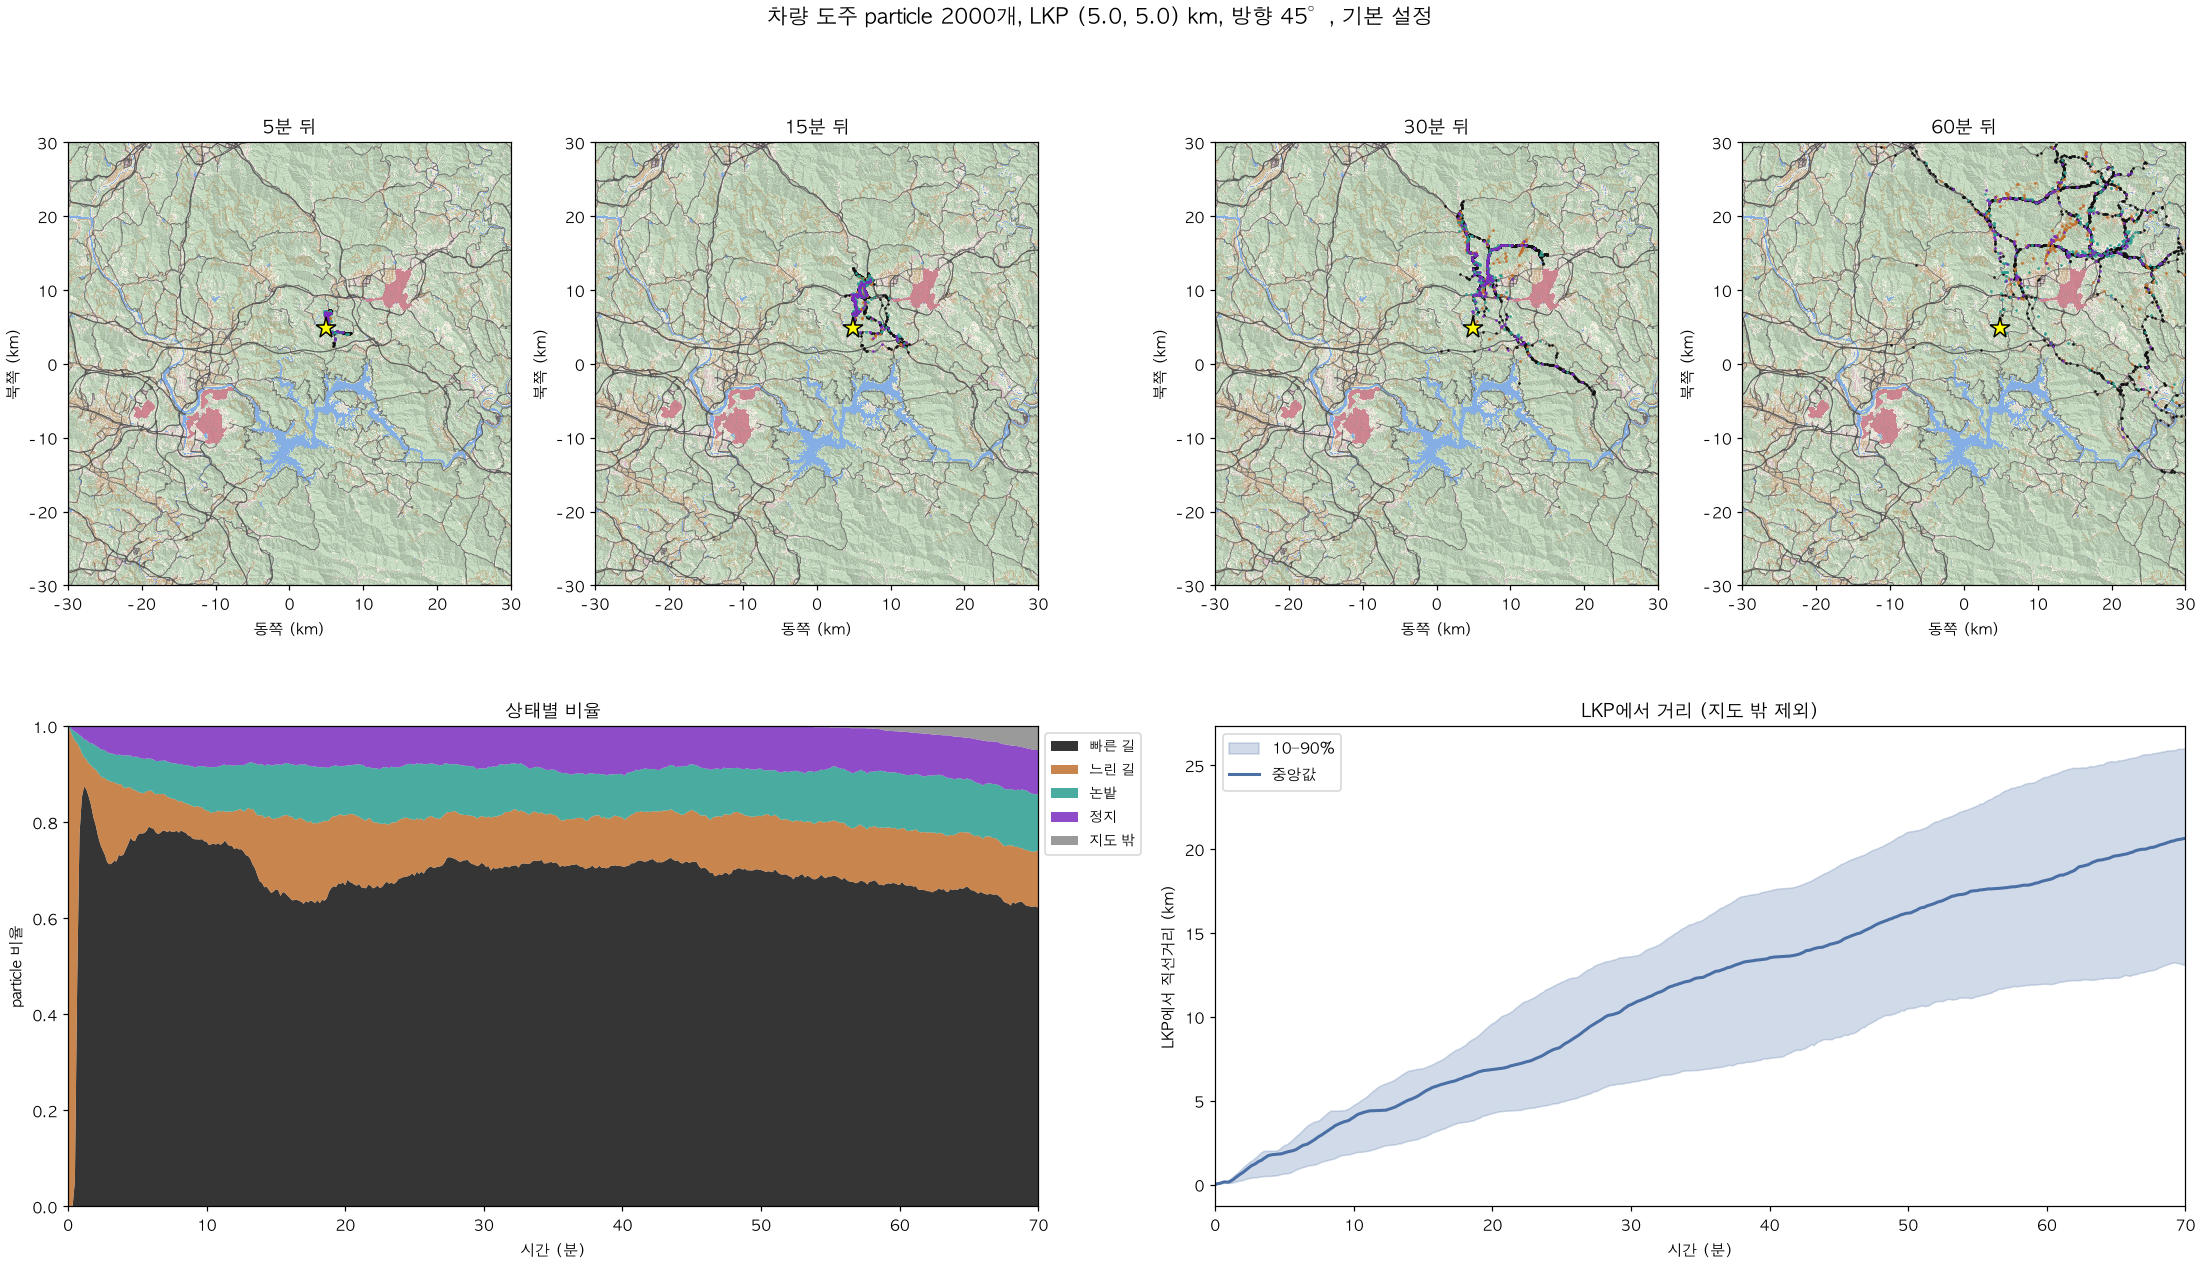
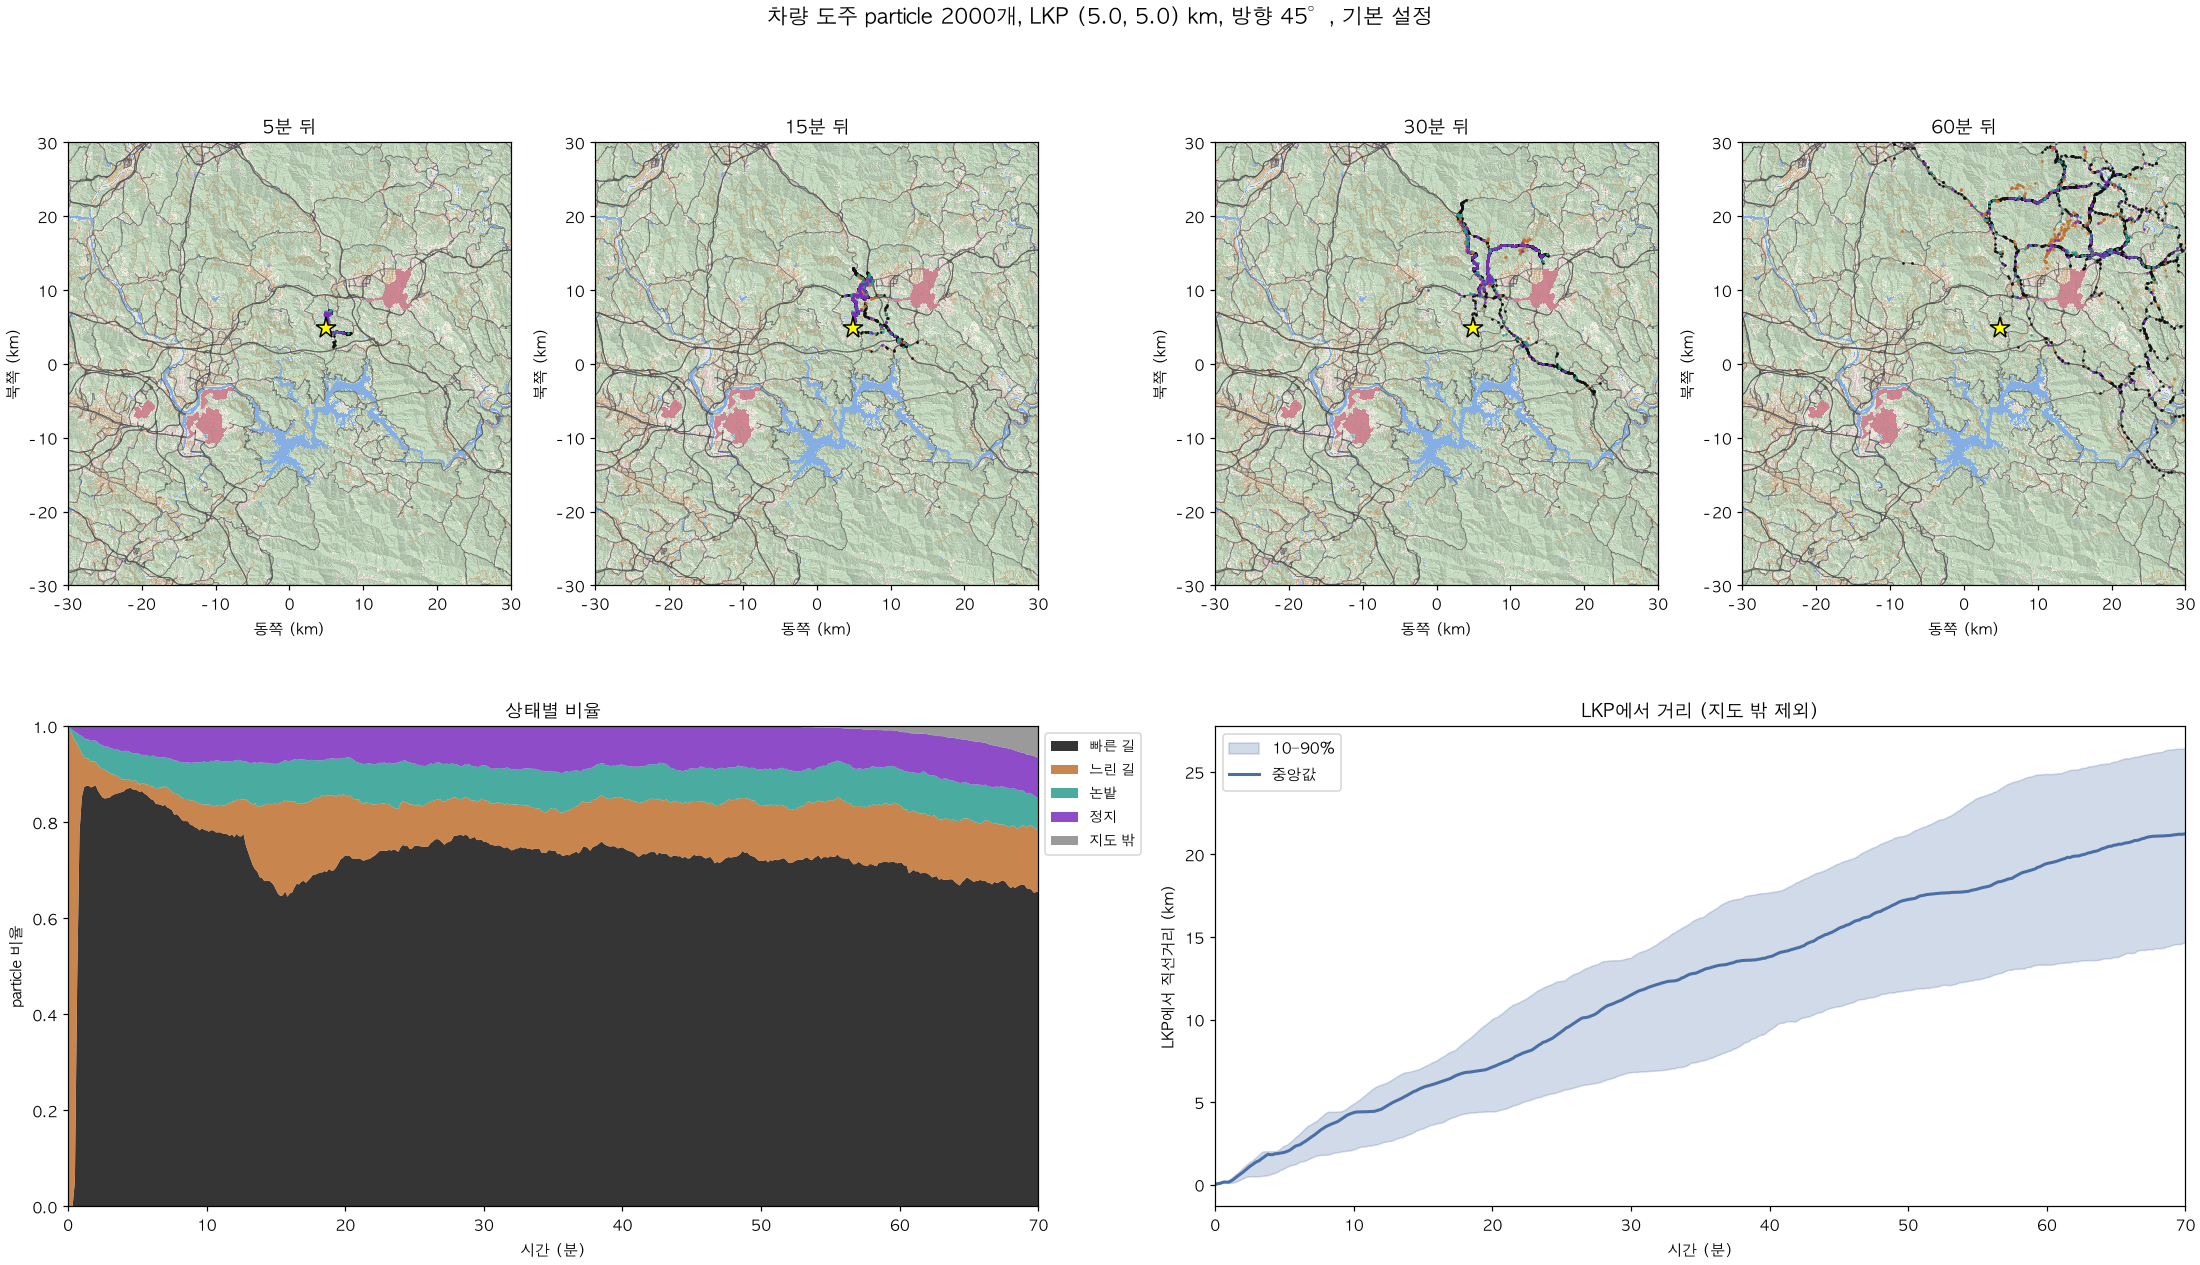
Fix stuck vehicle particles: drive only the strongly connected road network (one-way traps at the city edge), off-road pull towards roads; check figure; handoff updated

diff --git a/rl_search/vehicle.py b/rl_search/vehicle.py
@@ -70,6 +70,7 @@ class VehicleConfig:
     respect_oneway: bool = True
     w_off_heading: float = 1.0         # off-road: pull towards the escape heading
     w_off_keep: float = 2.0            # off-road: keep the current driving direction
+    w_off_road: float = 1.0            # off-road: pull towards the nearest road (fields boxed in by forest)
 
     @property
     def save_every(self) -> int:
@@ -161,6 +162,7 @@ class RoadNet:
         # map edge are not leaves: those roads continue outside the map.
         u, v = e["u"].astype(np.int64), e["v"].astype(np.int64)
         anchor = np.abs(self.node_xy).max(axis=1) >= -terr.axis[0] - 500.0
+        self.anchor = anchor
         alive = self.edge_main & (u != v)
         while True:
             deg = np.bincount(u[alive], minlength=nn) + np.bincount(v[alive], minlength=nn)
@@ -175,8 +177,9 @@ class RoadNet:
         self.set_oneway(True)
         self._goal_cache = {}
 
-        # snapping grid: road cells hold an edge id and the distance along it
-        ok &= self.edge_main[pe]
+        # snapping grid: road cells hold an edge id and the distance along it (only edges that can be driven)
+        drivable = self.allowed[0::2] | self.allowed[1::2]
+        ok &= drivable[pe]
         self.cell_edge = np.full((n, n), -1, np.int32)
         self.cell_s = np.zeros((n, n), np.float32)
         self.cell_edge[r[ok], c[ok]] = pe[ok]
@@ -187,8 +190,27 @@ class RoadNet:
         self.drive = None
 
     def set_oneway(self, respect: bool) -> None:
-        allowed = (self.de_oneway_ok if respect else np.ones_like(self.de_oneway_ok)) & self.de_main
+        """Out-edge lists of the drivable directed graph.
+
+        Only the strongly connected part is kept (every node can reach every other one), with all map-edge
+        nodes joined through a virtual outside node, since those roads continue outside the map. Without
+        this, removing the city roads left one-way traps: at the edge of Chungju 95 of 2000 particles drove
+        back and forth on one 277 m one-way piece for the whole hour.
+        """
+        from scipy.sparse import csr_matrix
+        from scipy.sparse.csgraph import connected_components
+        ok = (self.de_oneway_ok if respect else np.ones_like(self.de_oneway_ok)) & self.de_main
         nn = len(self.node_xy)
+        d = np.flatnonzero(ok)
+        anc = np.flatnonzero(self.anchor)
+        rows = np.concatenate([self.de_from[d], anc, np.full(len(anc), nn)])
+        cols = np.concatenate([self.de_to[d], np.full(len(anc), nn), anc])
+        g = csr_matrix((np.ones(len(rows)), (rows, cols)), shape=(nn + 1, nn + 1))
+        _, lab = connected_components(g, directed=True, connection="strong")
+        big = lab[:nn] == lab[nn]
+        allowed = ok & big[self.de_from] & big[self.de_to]
+        self.allowed = allowed
+        self.scc_share = float(self.edge_len[allowed[0::2] | allowed[1::2]].sum()/self.edge_len[self.edge_main].sum())
         des = np.flatnonzero(allowed)
         order = np.argsort(self.de_from[des], kind="stable")
         des = des[order]
@@ -213,14 +235,14 @@ class RoadNet:
             return self._goal_cache[key]
         from scipy.sparse import csr_matrix
         from scipy.sparse.csgraph import dijkstra
-        allowed = (self.de_oneway_ok if self.respect else np.ones_like(self.de_oneway_ok)) & self.de_main
+        allowed = self.allowed
         des = np.flatnonzero(allowed)
         w = self.edge_time(cfg)[des >> 1]
         nn = len(self.node_xy)
         rev = csr_matrix((w + 1e-6, (self.de_to[des], self.de_from[des])), shape=(nn, nn))   # reversed: goal -> node
         half = -self.terr.axis[0]
         main_node = np.zeros(nn, bool)
-        main_node[self.de_from[self.de_main]] = True
+        main_node[self.de_from[allowed]] = True
         edge_nodes = np.flatnonzero((np.abs(self.node_xy).max(axis=1) >= half - 500.0) & main_node)
         ang = np.arctan2(*(self.node_xy[edge_nodes] - np.asarray(lkp, float))[:, ::-1].T)
         K = int(round(360/cfg.goal_sector_deg))
@@ -285,7 +307,7 @@ class RoadNet:
         fw, bw = 2*e, 2*e + 1
         h = np.stack([np.cos(heading), np.sin(heading)], 1)
         dfw = self.direction(fw, s); dbw = self.direction(bw, self.edge_len[e] - s)
-        ok_f = self.de_oneway_ok[fw] | ~self.respect; ok_b = self.de_oneway_ok[bw] | ~self.respect
+        ok_f = self.allowed[fw]; ok_b = self.allowed[bw]
         score_f = np.where(ok_f, (dfw*h).sum(1), -9); score_b = np.where(ok_b, (dbw*h).sum(1), -9)
         use_f = score_f >= score_b
         return np.where(use_f, fw, bw), np.where(use_f, s, self.edge_len[e] - s)
@@ -457,8 +479,12 @@ def simulate_vehicle(net: RoadNet, cfg: VehicleConfig, lkp, heading_deg: float, 
                 ny = pos[i, 1, None] + dist[:, None]*np.sin(ang)
                 rr, cc = net.cell_of(np.stack([nx.ravel(), ny.ravel()], 1))
                 okc = net.drive[rr, cc].reshape(nx.shape) | ~terr.inside(nx, ny)
+                r0, c0 = net.cell_of(pos[i])
+                ax_ = terr.axis
+                to_road = np.arctan2(ax_[net.near_r[r0, c0]] - pos[i, 1], ax_[net.near_c[r0, c0]] - pos[i, 0])
                 score = (cfg.w_off_keep*np.cos(OFF_OFFSETS)[None, :]
-                         + cfg.w_off_heading*np.cos(ang - esc[i, None]))
+                         + cfg.w_off_heading*np.cos(ang - esc[i, None])
+                         + cfg.w_off_road*np.cos(ang - to_road[:, None]))
                 score = np.where(okc, score, -1e9)
                 stuck = ~okc.any(axis=1)
                 k = _softmax_pick(rng, score)

diff --git a/rl_search/scripts/real_map/stuck_check.py b/rl_search/scripts/real_map/stuck_check.py
@@ -1,0 +1,89 @@
+"""Particles that barely move in the last 20 minutes, with and without the off-road pull towards roads.
+Figure: rl_search/data/real/chungju/vehicle_stuck.png
+
+A particle counts as stuck when it is less than 500 m from where it was 20 minutes earlier and has not
+left the map. "Off-road" stuck: >= 80 % of that time off-road; "road": <= 20 %.
+
+Run from the repository root:
+    python -m rl_search.scripts.real_map.stuck_check
+"""
+from __future__ import annotations
+
+from dataclasses import replace
+
+import numpy as np
+import matplotlib
+matplotlib.use("Agg")
+import matplotlib.pyplot as plt
+
+from rl_search.real_terrain import DATA
+from rl_search.scripts.real_map.vehicle_tuner import map_image
+from rl_search.vehicle import EXIT, OFF, VehicleConfig, load_net, simulate_vehicle
+
+plt.rcParams["font.family"] = ["AppleGothic", "sans-serif"]
+plt.rcParams["axes.unicode_minus"] = False
+LKPS = {"A (5, 5)": (5000.0, 5000.0), "B (−9.6, 15)": (-9600.0, 15000.0), "C (−20, −15)": (-20000.0, -15000.0)}
+PULLS = (0.0, 1.0)
+
+
+def stuck(r):
+    T = r.track.shape[0] - 1
+    k0 = T - int(20*60/r.cfg.save_dt_s)
+    moved = np.hypot(*(r.track[T] - r.track[k0]).T)
+    off = (r.state[k0:] == OFF).mean(axis=0)
+    s = (moved < 500) & (r.state[T] != EXIT)
+    return s & (off >= .8), s & (off <= .2), s
+
+
+def main():
+    net = load_net()
+    base = VehicleConfig(particles=2000)
+    res = {}
+    for name, lkp in LKPS.items():
+        for w in PULLS:
+            res[(name, w)] = simulate_vehicle(net, replace(base, w_off_road=w), lkp, 45.0, np.random.default_rng(0))
+    img, ext = map_image(net, 1600)
+    fig = plt.figure(figsize=(19, 11), layout="constrained")
+    gs = fig.add_gridspec(2, 3, height_ratios=[1.25, 1])
+    for j, w in enumerate(PULLS):
+        ax = fig.add_subplot(gs[0, j])
+        ax.imshow(img, extent=ext, origin="upper")
+        for (name, lkp), c in zip(LKPS.items(), ("#2a6fdb", "#e07a1f", "#3a9d5d")):
+            r = res[(name, w)]
+            so, sr, _ = stuck(r)
+            p = r.track[-1]/1000
+            ax.scatter(p[so, 0], p[so, 1], s=16, marker="s", c=c, edgecolor="black", lw=.4)
+            ax.scatter(p[sr, 0], p[sr, 1], s=22, marker="^", c=c, edgecolor="black", lw=.4)
+            ax.plot(*(r.lkp_road/1000), marker="*", ms=13, mfc=c, mec="black")
+        ax.set_title(f"논밭→도로 끌림 {w:g}: 멈춘 particle (■ 논밭, ▲ 도로, ★ LKP)")
+        ax.set_xlabel("동쪽 (km)"); ax.set_ylabel("북쪽 (km)")
+    ax = fig.add_subplot(gs[0, 2])
+    y = np.arange(len(LKPS))
+    for j, (w, c) in enumerate(zip(PULLS, ("#bbbbbb", "#2a4d7a"))):
+        v = [stuck(res[(n, w)])[2].mean() for n in LKPS]
+        ax.barh(y + (j - .5)*.38, np.array(v)*100, height=.36, color=c, label=f"끌림 {w:g}")
+        for yy, vv in zip(y + (j - .5)*.38, v):
+            ax.text(vv*100 + .05, yy, f"{vv:.1%}", va="center", fontsize=9)
+    ax.set_yticks(y, [f"LKP {n} km" for n in LKPS]); ax.invert_yaxis()
+    ax.set_xlabel("마지막 20분 동안 500 m 안에 머문 비율 (%)")
+    ax.set_title("멈춘 particle 비율 (도로 함정은 두 경우 모두 고친 뒤)"); ax.legend()
+    ax = fig.add_subplot(gs[1, :])
+    tmin = np.arange(base.n_steps//base.save_every + 1)*base.save_dt_s/60
+    for (name, lkp), c in zip(LKPS.items(), ("#2a6fdb", "#e07a1f", "#3a9d5d")):
+        for w, ls in zip(PULLS, (":", "-")):
+            r = res[(name, w)]
+            ax.plot(tmin, (r.state == OFF).mean(axis=1), color=c, ls=ls, lw=1.8, label=f"{name}, 끌림 {w:g}")
+    ax.set_xlabel("시간 (분)"); ax.set_ylabel("논밭에 있는 비율"); ax.set_xlim(0, tmin[-1])
+    ax.set_title("논밭에 있는 particle 비율: 끌림이 없으면 숲에 둘러싸인 논밭에 갇힌 차가 쌓인다"); ax.legend(ncol=3, fontsize=9)
+    fig.suptitle(f"멈춘 particle 확인 (particle 2,000개, 방향 45°, 쓰는 도로 중 일방통행 기준 서로 오갈 수 있는 부분 {net.scc_share:.1%})",
+                 fontsize=14)
+    fig.savefig(DATA/"chungju"/"vehicle_stuck.png", dpi=110)
+    plt.close(fig)
+    for name in LKPS:
+        print(name, " | ".join(f"끌림 {w:g}: 멈춤 {stuck(res[(name, w)])[2].mean():.3f} (논밭 {stuck(res[(name, w)])[0].sum()}, "
+                               f"도로 {stuck(res[(name, w)])[1].sum()}), 논밭 시간 {np.mean(res[(name, w)].state[1:] == OFF):.3f}"
+                               for w in PULLS))
+
+
+if __name__ == "__main__":
+    main()

diff --git a/rl_search/scripts/real_map/vehicle_tuner.py b/rl_search/scripts/real_map/vehicle_tuner.py
@@ -50,7 +50,7 @@ GROUPS = {
     "전이 (분당)": [("p_leave_fast_min", "빠른 길→논밭", 0, .5, .005), ("p_leave_slow_min", "느린 길→논밭", 0, .5, .005),
                 ("p_return_min", "논밭→도로 복귀", 0, 1, .01), ("return_radius_m", "복귀 거리 (m)", 25, 500, 25),
                 ("p_stop_min", "정지", 0, .3, .005), ("p_go_min", "재출발", 0, 1, .01),
-                ("off_max_slope_deg", "논밭 경사 한계 (°)", 3, 30, 1)],
+                ("off_max_slope_deg", "논밭 경사 한계 (°)", 3, 30, 1), ("w_off_road", "논밭→도로 끌림", 0, 5, .1)],
     "경로·시작": [("heading", "도주 방향 (°)", 0, 359, 5), ("heading_std_deg", "방향 퍼짐 (°)", 0, 120, 1),
               ("reorient_std_deg_min", "방향 흔들림 (°/√분)", 0, 20, .5),
               ("p_detour", "교차로 다른 길 확률", 0, .5, .01), ("goal_sector_deg", "목적지 구간 (°)", 2, 30, 1),

diff --git a/docs/real_map_todo.md b/docs/real_map_todo.md
@@ -3,7 +3,35 @@
 SAROPS 방식 탐색([SAROPS 방식 적용 검토 TODO](sarops_approach_todo.md))을 실제 지형 위로 옮기는 작업을 관리한다.
 날짜는 한국 시간.
 
-## 2026-11-06 · 막다른 길로는 가지 않는다 (최신 인계)
+## 2026-11-06 · 멈춰 있던 particle 수정 (최신 인계)
+
+**현재 위치:** 사용자가 "산에 막혀 못 나가는 particle이 많다"고 지적했다. 원인 두 가지를 찾아 고쳤다(`vehicle_stuck.png`, `scripts/real_map/stuck_check.py`).
+무장 세력 성격을 반영하는 일은 아래 절의 미결 질문 그대로다.
+
+**멈춤의 기준:** 마지막 20분 동안 500 m 안에 머물고, 지도 밖으로 나가지 않은 particle.
+
+**원인과 수정**
+1. **도시 도로를 빼면서 일방통행 함정이 생겼다.**
+   - 충주 시내 가장자리(−13.9, −9.95 km)의 277 m 일방통행 간선이 시내 쪽으로 막혔다. LKP C에서 95/2000개가 한 시간 내내 그 간선을 왔다 갔다 했다.
+   - 수정: 일방통행을 지켰을 때 서로 오갈 수 있는 부분(강하게 연결된 성분)만 쓴다. 지도 가장자리 노드들은 바깥 세상으로 서로 이어진 것으로 친다.
+   - 쓰는 도로망의 99.3%가 남는다. 경로 계산, 교차로 선택, 도로 복귀 모두 이 부분만 쓴다.
+2. **숲에 둘러싸인 논밭에서 차가 나오지 못했다.**
+   - 도로 복귀는 100 m 안에서만 일어난다. 그런데 갇힌 차들은 도로에서 중앙값 190~260 m 떨어진 곳을 20분에 3 km씩 돌고 있었다.
+   - 수정: 도로 밖에서 가장 가까운 도로 쪽으로 끌리는 항 `w_off_road`(기본 1.0)를 넣었다. 웹 화면의 "전이" 탭에 슬라이더가 있다.
+
+**결과** (particle 2,000개, 방향 45°)
+
+| LKP | 수정 전 | 일방통행 함정만 고침 (끌림 0) | 둘 다 고침 (끌림 1) |
+|---|---|---|---|
+| A (5, 5) km | 4.5% | 4.8% | 1.0% |
+| B (−9.6, 15) km | 1.7% | 1.8% | 0.9% |
+| C (−20, −15) km | 11.0% | 5.8% | 1.4% |
+
+- 논밭에 있는 비율은 0.06~0.12에서 0.05~0.08로 줄었다.
+- 60분 거리 중앙값은 거의 그대로다(A 19.5, B 15.1, C 22.2 km).
+- **남은 0.5% 정도는 함정이 아니다.** 20분에 9 km를 달린 뒤 출발 근처로 돌아온 particle들이고, 위치도 지도 곳곳에 흩어져 있다. 도주 방향이 흔들리거나 다른 길로 빠졌다가 돌아온 경우다.
+
+## 2026-11-06 · 막다른 길로는 가지 않는다
 
 **현재 위치:** 사용자 결정으로 막다른 길 규칙을 넣었다. 웹 조절 화면은 사용자가 써 보고 "부드럽다"고 확인했다.
 사용자는 도주자 대신 "무장 세력" 성격을 반영하는 방안을 생각 중이다(아래 미결 질문).
